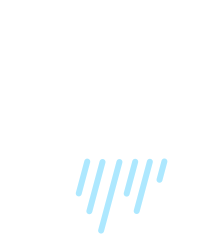
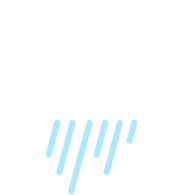
Fixed fetch error, cropped image excess

diff --git a/components/LargeWeatherComponent.tsx b/components/LargeWeatherComponent.tsx
@@ -12,15 +12,15 @@ interface LargeWeatherComponentProps {
 }
 export const LargeWeatherComponent: FC<LargeWeatherComponentProps> = ({today, location, farenheight}) => {
     return (
-        <div className="flex flex-col bg-card-blue h-full pt-14">
-            <div className="relative">
+        <div className="flex flex-col bg-card-blue h-full">
+            <div className="relative mt-12">
                 <div className="absolute top-0 bottom-0 right-0 -left-8 opacity-10 bg-[url('/images/CloudBg.png')] bg-cover bg-no-repeat"></div>
-                <div className="relative z-3 self-center w-full flex justify-center">
-                    <Image src={`/images/${today.weather_state_abbr}.png`} alt="LightRain" width={202} height={234}  />
+                <div className="relative z-3 w-full flex justify-center">
+                    <Image className="self-center" src={`/images/${today.weather_state_abbr}.png`} alt="LightRain" width={172} height={204}  />
                 </div>
             </div>
             <div className="items-center text-center">
-            <p className="font-raleway p-16">
+            <p className="font-raleway p-12">
                 <span className="text-8xl font-medium">{farenheight ? convertToFar(today.the_temp).toFixed(0) : today.the_temp.toFixed(0) }</span>
                 <span className="font-thin text-tx-grey text-2xl">°{farenheight ? 'F' : 'C'}</span>
                 </p>

diff --git a/pages/api/search.ts b/pages/api/search.ts
@@ -9,7 +9,7 @@ export default async function handler(
     const { term, lattlong } = req.query;
     const locationReq = await fetch('https://www.metaweather.com/api/' + `location/search/?${lattlong ? `lattlong=${lattlong}` : `query=${term}`}`);
     if(locationReq.ok){
-        return res.status(locationReq.status).json(await locationReq.json())
+      return res.status(locationReq.status).json(await locationReq.json())
     }
     throw new Error(locationReq.statusText);
   }catch(e: any){

diff --git a/pages/api/locWeather.ts b/pages/api/locWeather.ts
@@ -9,7 +9,7 @@ export default async function handler(
         const { woe } = req.query;
         const result = await fetch('https://www.metaweather.com/api/' + 'location/' + woe);
         if(result.ok){
-            res.status(result.status).json(await result.json());
+            return res.status(result.status).json(await result.json());
         }
         throw new Error(result.statusText);
     }catch(e: any){
